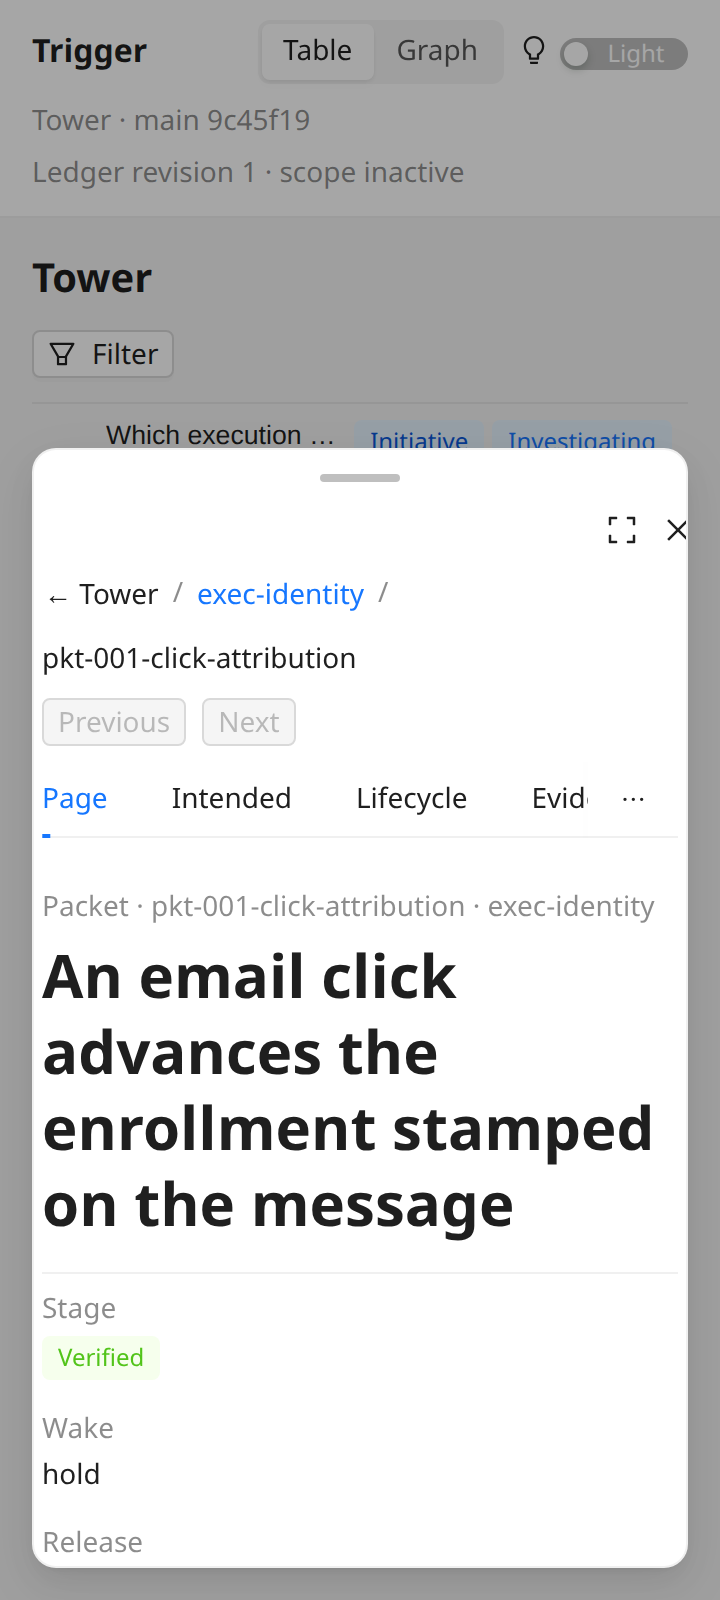
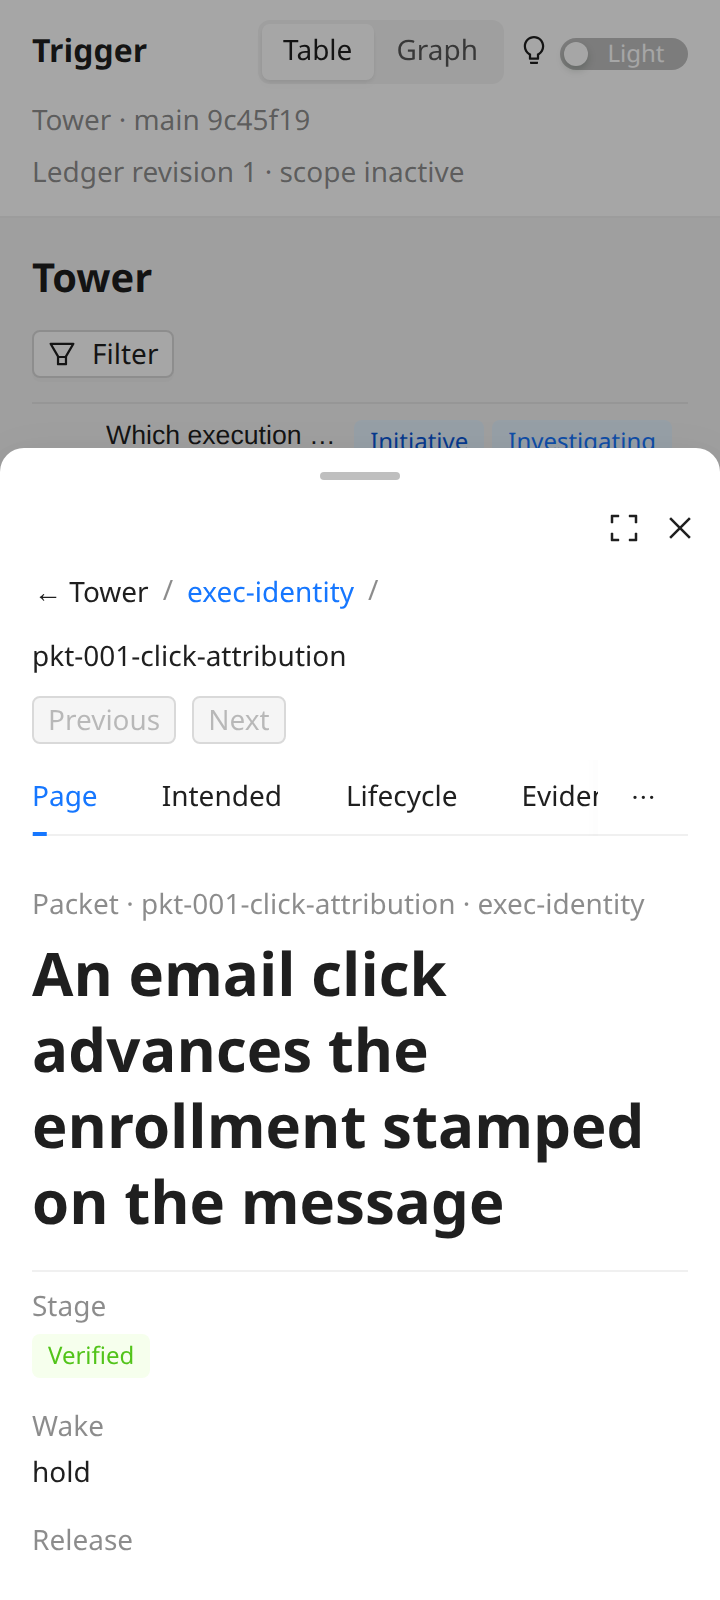
Flush the compact sheet to the viewport.
Padding stays inside the card so copy does not brush the sheet. The sheet itself has no outer margin, matching plate 05.

diff --git a/src/desk/Pane.tsx b/src/desk/Pane.tsx
@@ -2,7 +2,6 @@ import { CloseOutlined, CompressOutlined, ExpandOutlined } from "@ant-design/ico
 import { Button, theme } from "antd";
 import { useRef, type ReactNode } from "react";
 import { useCompact } from "./compact.ts";
-import { SHEET_INSET } from "./place.ts";
 
 export function PagePane({
   expanded,
@@ -44,10 +43,6 @@ export function PagePane({
             background: token.colorBgContainer,
             color: token.colorText,
             boxShadow: token.boxShadowSecondary,
-            border: `1px solid ${token.colorSplit}`,
-            left: SHEET_INSET,
-            right: SHEET_INSET,
-            bottom: SHEET_INSET,
           }}
         >
           <div

diff --git a/src/desk/desk.css b/src/desk/desk.css
@@ -102,19 +102,24 @@ body,
   position: fixed;
   z-index: 21;
   top: 28%;
+  right: 0;
+  bottom: 0;
+  left: 0;
   display: flex;
   flex-direction: column;
   overflow: hidden;
-  border-radius: 12px;
+  border-radius: 12px 12px 0 0;
+  padding: 0 16px 20px;
 }
 
 .desk-sheet-expanded {
-  top: 16px;
+  top: 0;
+  border-radius: 0;
 }
 
 .desk-sheet .desk-pane-body {
   overflow: auto;
-  padding: 0 4px 8px;
+  padding: 0 0 8px;
   min-height: 0;
 }
 

diff --git a/src/desk/place.ts b/src/desk/place.ts
@@ -8,7 +8,6 @@ export type WalkablePage = {
 
 export const PAGE_GUTTER_DESKTOP = 24;
 export const PAGE_GUTTER_COMPACT = 16;
-export const SHEET_INSET = 16;
 export const MODE_KEY = "trigger-desk-mode";
 
 export function pageFromHash(hash: string): string | null {

diff --git a/docs/register/PM-PACKET-006-interaction-desk.md b/docs/register/PM-PACKET-006-interaction-desk.md
@@ -45,11 +45,11 @@ No new store. Selection, split, hash, click-to-filter, crumb, sheet, expand, and
 
 **The page is a place.** Crumb: `← Tower / <initiative id> / <this packet id>` (initiative omits the third). Tower closes the pane. The initiative id opens that page. Ant tabs jump to sections already on the page (they do not hide facts). Packet tabs: Page, Intended, Lifecycle, Evidence, GitHub. Initiative tabs: Page, Specification, Journal, GitHub. Previous / Next walks packets inside the same initiative (initiatives walk other initiatives). Keyboard `j` / `k` is the same walk. Escape closes expand, then the pane. The URL is `#<page id>`. Refresh still does not kick you off it.
 
-**Compact is the same idea.** Below 992px the work list (or graph) stays. The page is a sheet over it, dimmed behind a backdrop. Side and bottom insets so the sheet does not brush the viewport. A grab dismisses (drag down). Backdrop click dismisses. 1440 stays the split pane, not the sheet.
+**Compact is the same idea.** Below 992px the work list (or graph) stays. The page is a sheet over it, dimmed behind a backdrop. The sheet is flush to the viewport (plate 05). Padding is inside the sheet so copy does not brush the card. A grab dismisses (drag down). Backdrop click dismisses. 1440 stays the split pane, not the sheet.
 
-**Expand.** An icon on the pane / sheet extends it to the full content width (desktop) or nearly the full viewport (compact, still inset). The same icon collapses. Do not regenerate plate 01; this control was asked after the plate.
+**Expand.** An icon on the pane / sheet extends it to the full content width (desktop) or nearly the full viewport (compact, still flush to the sides). The same icon collapses. Do not regenerate plate 01; this control was asked after the plate.
 
-**Gutters.** Content padding 24px desktop, 16px compact. Pane inner padding 16–20px. Sheet inset 16px from the viewport edges. Nothing flushes to a window border.
+**Gutters.** Content padding 24px desktop, 16px compact. Pane and sheet **inner** padding 16–20px. The compact sheet itself has no viewport margin.
 
 **Process / loading / live.** First snapshot: Ant Spin in the content. Later 60s reads: a small Spin next to the ledger while the fetch is in flight. Running execution already uses a processing tag; keep it and sit a small spinner next to that tag. Failed read stays the existing danger text and last rows. Light / dark is remembered in `localStorage` (`trigger-desk-mode`).
 

diff --git a/docs/register/SYSTEMS-CHANGE-PACKET-006-interaction-desk.md b/docs/register/SYSTEMS-CHANGE-PACKET-006-interaction-desk.md
@@ -22,8 +22,8 @@ The founder approved all five interaction-design plates, then locked side gutter
 - Click-to-filter writes the existing `DeskFilter` `{ field, value }` the Filter form already mints. Fields: Type, Module, Stage, Inside, Depends on. Stage value is `stageLabel`. Shared by table and graph.
 - Inside on the page opens that initiative. Lifecycle `basis` is a popover of the string already on the step.
 - Crumb, section jumps (not hiding sections), Previous / Next among packets of the same initiative (initiatives among initiatives). `j` / `k`. Escape: collapse expand, then close.
-- Expand icon on the pane/sheet. Full content width desktop; compact sheet grows toward the top and stays inset.
-- Gutters: content 24px desktop / 16px compact. Pane padded. Sheet inset 16px from the viewport. No flush-to-border body.
+- Expand icon on the pane/sheet. Full content width desktop; compact sheet grows toward the top and stays flush to the sides.
+- Gutters: content 24px desktop / 16px compact. Pane and sheet inner padding 16–20px. Compact sheet is flush to the viewport (no outer margin). Copy does not brush the card.
 - First load: Spin. Subsequent ticks: small Spin while the fetch is in flight. Running execution: processing tag plus a small spinner. No Stop. Mode remembered in `localStorage` key `trigger-desk-mode`.
 - Light and dark remain Ant `defaultAlgorithm` / `darkAlgorithm`, primary `#1677ff`, radius 6, font 14, controlHeight 32.
 - 60s refresh must not reset `view`, `filters`, `mode`, `pageId`, or expand.
@@ -83,7 +83,7 @@ Also:
 - Open packet: `[data-testid=database]` and `[data-testid=page-pane]` both present at 1440. Hash `#pkt-001-click-attribution`.
 - Expand: table not in layout; collapse restores it.
 - Click Stage Verified: chip `Stage is Verified`; 1 page on the fixture.
-- 360: `[data-testid=work-list]` and `[data-testid=page-sheet]` both present. Sheet `left >= 16`.
+- 360: `[data-testid=work-list]` and `[data-testid=page-sheet]` both present. Sheet `left` / `right` flush to the viewport. Inner padding ≥ 16.
 - Content padding desktop 24. No page overflow at 360.
 - No Run / Stop / Dispatch.
 

diff --git a/docs/register/V1-OBSERVABILITY-SPEC.md b/docs/register/V1-OBSERVABILITY-SPEC.md
@@ -249,7 +249,7 @@ Packets 001–005 remain the desk. This section is how the founder moves through
 
 ### Face
 
-Table stays; page is a pane (expand icon fills the content width). Graph keeps the map with a selected ring. Click Type / Stage / Module / Inside / Depends on mints the existing filter chip. Crumb `← Tower / initiative / packet`, section jumps, Previous / Next, `#page-id`. Compact: sheet over the list, inset. Gutters 24 / 16. First-load and refresh Spin. Mode in `localStorage`. Snapshot unchanged.
+Table stays; page is a pane (expand icon fills the content width). Graph keeps the map with a selected ring. Click Type / Stage / Module / Inside / Depends on mints the existing filter chip. Crumb `← Tower / initiative / packet`, section jumps, Previous / Next, `#page-id`. Compact: sheet over the list, flush to the viewport, padding inside the card. Gutters 24 / 16 on the desk. First-load and refresh Spin. Mode in `localStorage`. Snapshot unchanged.
 
 ### File cut
 

diff --git a/docs/register/PM-PACKET-006-interaction-desk-TEST.md b/docs/register/PM-PACKET-006-interaction-desk-TEST.md
@@ -49,8 +49,8 @@ Walk this on the planted desk of PR 6. Packets 001–005 walks still have to pas
 
 ## Compact sheet
 
-1. At 360, the work list is present. Open the packet. The list is still in the DOM, dimmed. The page is a sheet (`[data-testid=page-sheet]`) inset from the sides (not flush). Grab or backdrop or `← Tower` dismisses. The list is still scrolled where it was.
-2. Expand on the sheet grows it toward the top, still inset.
+1. At 360, the work list is present. Open the packet. The list is still in the DOM, dimmed. The page is a sheet (`[data-testid=page-sheet]`) flush to the sides and bottom. Copy inside the sheet is padded (does not brush the card). Grab or backdrop or `← Tower` dismisses. The list is still scrolled where it was.
+2. Expand on the sheet grows it toward the top. Sides stay flush.
 3. At 1440 the sheet is not used.
 
 **I saw:**

diff --git a/docs/register/plates/ixd/README.md b/docs/register/plates/ixd/README.md
@@ -12,7 +12,8 @@ Not painted plates. Captured from the planted desk.
 - [built-graph-pane.png](./built-graph-pane.png) — graph keeps the map, selected ring
 - [built-expanded.png](./built-expanded.png) — expand fills the content width
 - [built-click-filter.png](./built-click-filter.png) — Stage tag minted `Stage is Verified`
-- [built-compact-sheet.png](./built-compact-sheet.png) — sheet over the list, inset from the sides  
+- [built-compact-sheet.png](./built-compact-sheet.png) — sheet over the list, flush to the sides, padding inside the card
+
 **Chrome lock:** live production https://trigger-theta-cyan.vercel.app at ledger revision 80, painted on 1440 (and 360 for compact). Header, Ant tokens, table, graph, and page body are the locked chrome. Only the pocket is painted.
 
 Founder ask:

diff --git a/docs/register/ENGINEER-HANDOFF.md b/docs/register/ENGINEER-HANDOFF.md
@@ -20,7 +20,7 @@ Verification at 8:55 AM ET on 30 Oct 2026:
 - `npm test`: vitest, 33 passed.
 - `npm run build`: tsc + vite, ok.
 - `scripts/walk-desk.mjs` at 1440 fixture: table stays with the pane, hash `#exec-identity`, Updated in view when the pane is closed.
-- `scripts/walk-ixd.mjs`: split, expand, click-to-filter, crumb, graph ring, compact sheet inset 16px, mode remembered.
+- `scripts/walk-ixd.mjs`: split, expand, click-to-filter, crumb, graph ring, compact sheet flush with inner padding, mode remembered.
 - `scripts/walk-mobile.mjs`: list stays under the sheet, no page overflow at 360–768.
 - `scripts/walk-plates.mjs`: two painted figures in the pane, `/api/tree-file` src, blob links, Ant preview.
 
